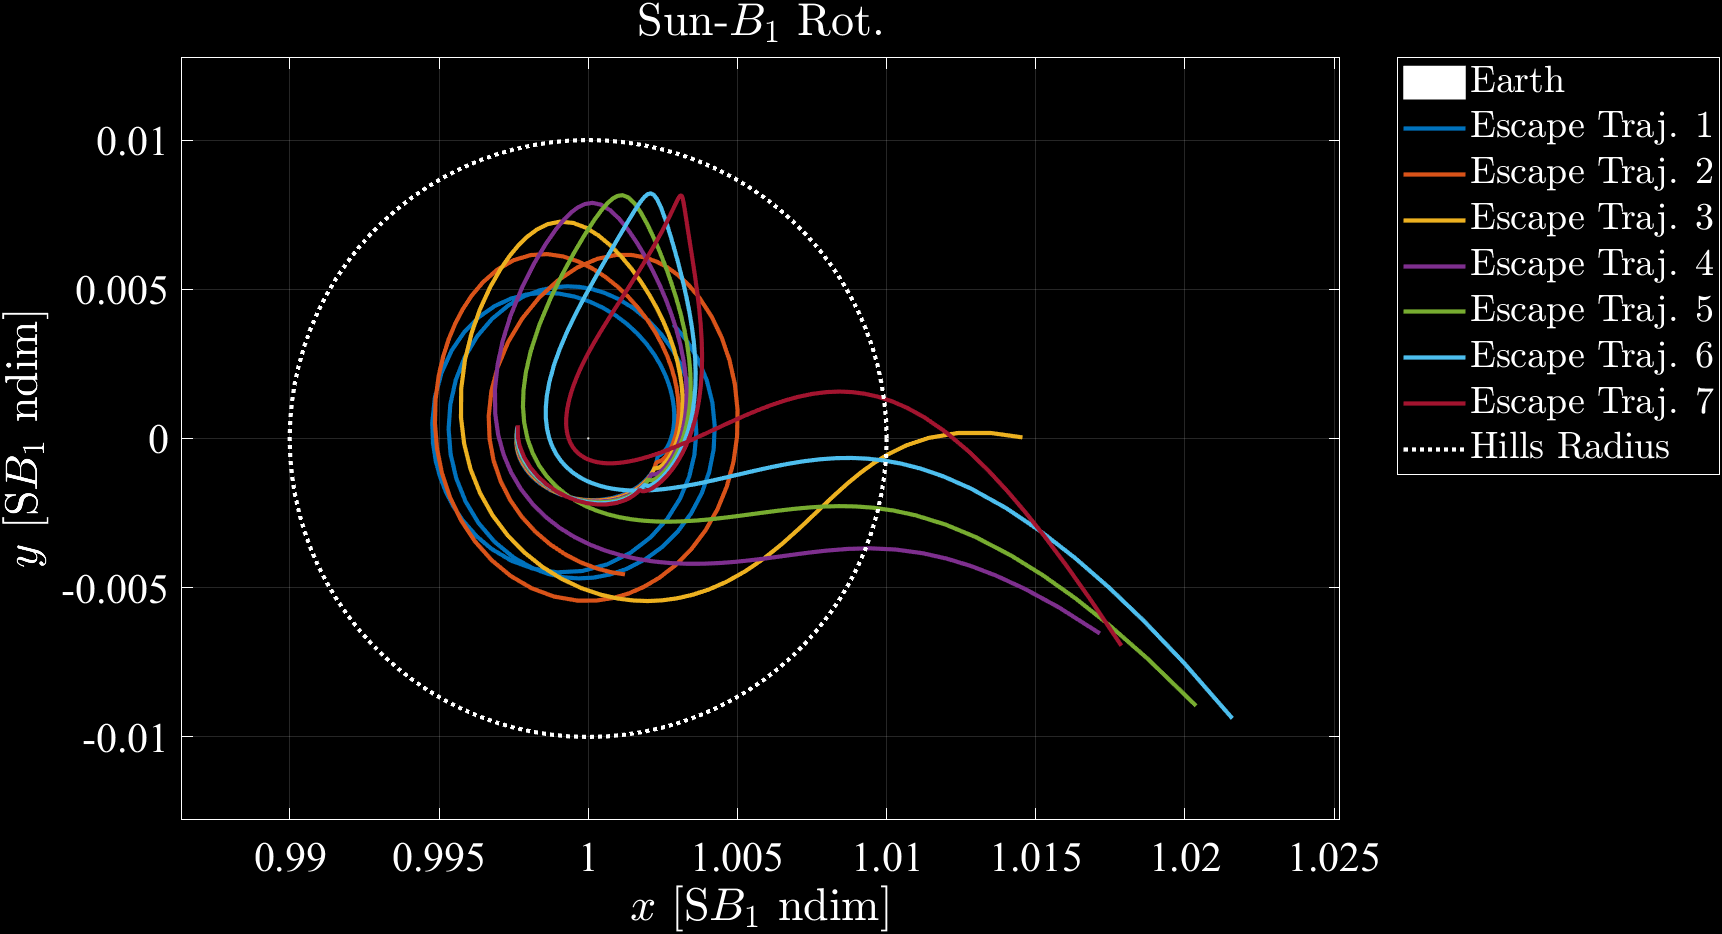
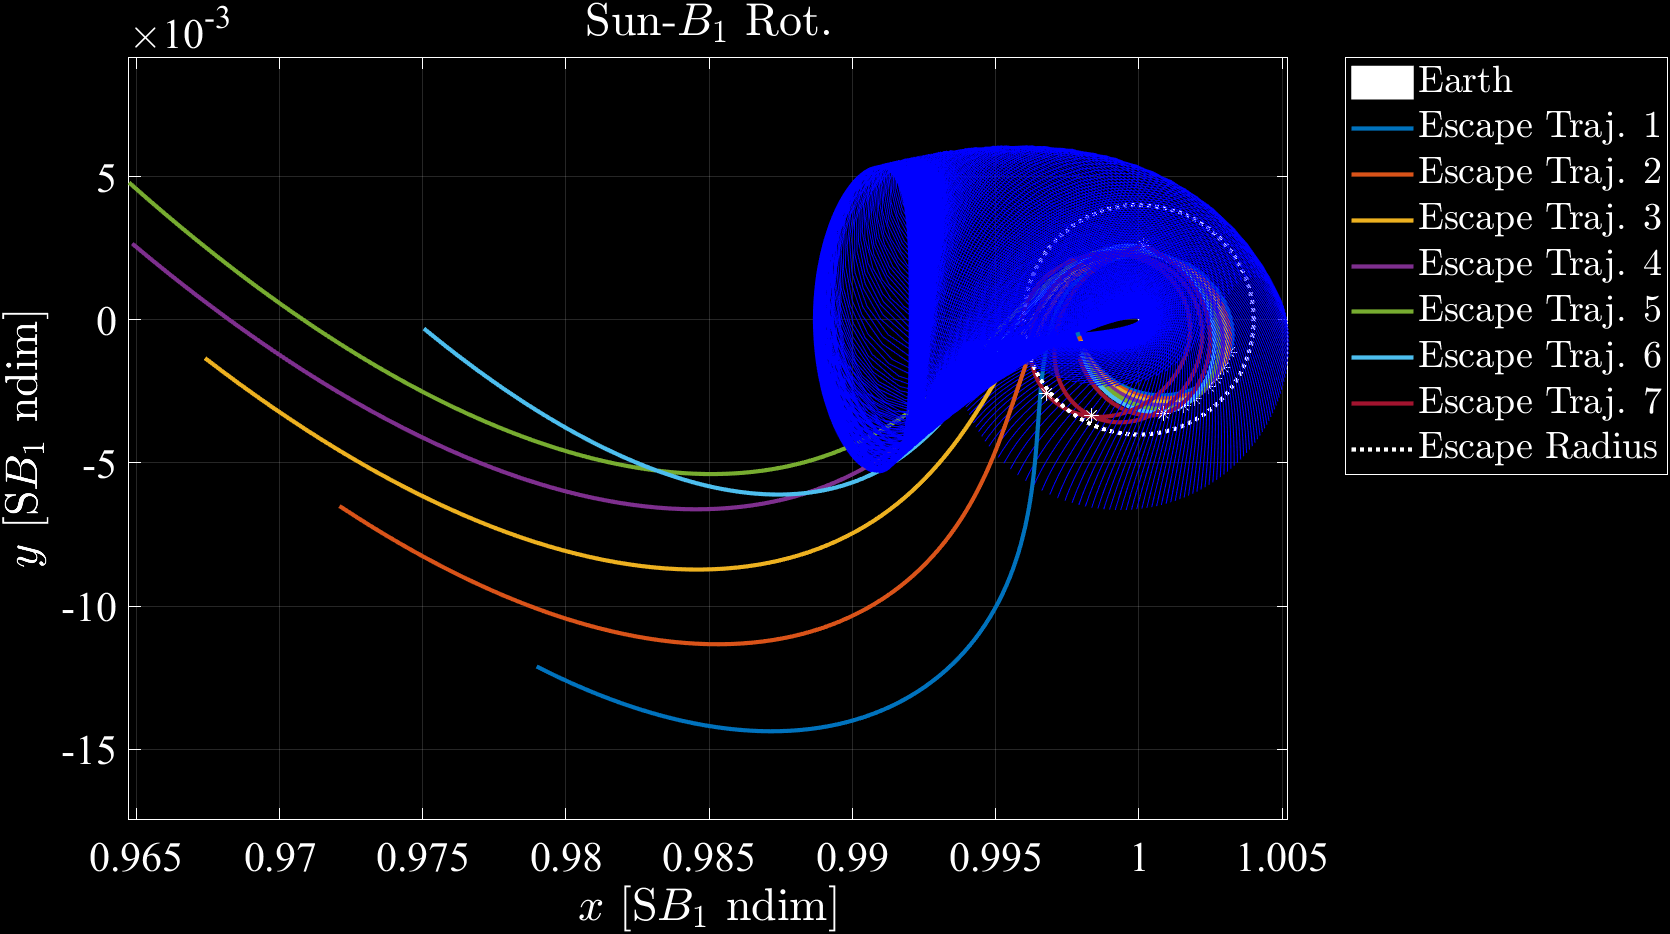
Updated EscapeAnalysis script

diff --git a/EscapeAnalysis.m b/EscapeAnalysis.m
@@ -1,7 +1,7 @@
 %%% EscapeAnalysis.jl
 %%% Jonathan Richmond
 %%% C: 22 September 2025
-%%% U: 23 September 2025
+%%% U: 7 October 2025
 
 clear
 load('../PhDScripts/Output/EscapeAnalysis.mat')
@@ -20,7 +20,8 @@ mstar = (gmE+gmm)/6.67384E-20; % Characteristic mass [kg]
 lstar = 3.8474799201129237E5; % Characteristic length [km]
 tstar = sqrt(lstar^3/(gmE+gmm)); % Characteristic time [s]
 
-RH = 1.496557260502363E6; % Hills radius [km]
+% RH = 1.496557260502363E6; % Hills radius [km]
+RH = 600000;
 
 %% Sun-B1 Data
 gmS = 1.327124400419393E11; % Sun gravitational parameter [km^3/s^2]
@@ -140,7 +141,7 @@ ylim(ax3, [0 10])
 grid on
 ylabel("$e_{E}$", 'Interpreter', 'latex')
 hold off
-xlabel("t [EM ndim]", 'Interpreter', 'latex')
+xlabel("$t$ [EM ndim]", 'Interpreter', 'latex')
 linkaxes([ax1, ax2, ax3], 'x')
 leg3 = legend(ps);
 leg3.Layout.Tile = 'east';
@@ -165,15 +166,34 @@ hold off
 %% Sun-B1 Trajectory Plot
 fig5 = figure("Position", [200 100 1200 750]);
 hold on
+ax = gca;
+colors = ax.ColorOrder;
+nColors = size(colors, 1);
 % Sun = plot3DBody("Sun", RS/lstarSB1, [-muSB1, 0, 0]);
 % set(Sun, 'DisplayName', "Sun")
 B1 = plot3DBody("Earth", RE/lstarSB1, [1-muSB1, 0, 0]);
 set(B1, 'DisplayName', "Earth")
 SB1Trajs = [SB1Trajectory1, SB1Trajectory2, SB1Trajectory3, SB1Trajectory4, SB1Trajectory5, SB1Trajectory6, SB1Trajectory7];
 for j = 1:length(SB1Trajs)
-    plot3(SB1Trajs(j).x(1:end-10), SB1Trajs(j).y(1:end-10), SB1Trajs(j).z(1:end-10), 'DisplayName', "Escape Traj. "+num2str(j))
+    color = colors(mod(j-1, nColors)+1,:);
+    plot3(SB1Trajs(j).x(1:end-150), SB1Trajs(j).y(1:end-150), SB1Trajs(j).z(1:end-150), 'Color', color, 'DisplayName', "Escape Traj. "+num2str(j))
+    dot_SB1 = zeros(length(SB1Trajs(j).x(1:end-150)), 1);
+    for k = 1:length(dot_SB1)
+        dot_SB1(k) = dot([SB1Trajs(j).x(k)-1+muSB1, SB1Trajs(j).y(k) SB1Trajs(j).z(k)], [SB1Trajs(j).xdot(k), SB1Trajs(j).ydot(k), SB1Trajs(j).zdot(k)]);
+    end
+    apse = find((dot_SB1(1:end-1) > 0) & (dot_SB1(2:end) <= 0))+1;
+    for k = 1:length(apse)
+        scatter3(SB1Trajs(j).x(apse(k)), SB1Trajs(j).y(apse(k)), SB1Trajs(j).z(apse(k)), 50, 'w', '*', 'HandleVisibility', 'off')
+    end
 end
-plot3(RH/lstarSB1*cos(linspace(0, 2*pi, 101))+1-muSB1, RH/lstarSB1*sin(linspace(0, 2*pi, 101)), zeros(1, 101), 'w:', 'DisplayName', "Hills Radius")
+% plot3(RH/lstarSB1*cos(linspace(0, 2*pi, 101))+1-muSB1, RH/lstarSB1*sin(linspace(0, 2*pi, 101)), zeros(1, 101), 'w:', 'DisplayName', "Hills Radius")
+plot3(RH/lstarSB1*cos(linspace(0, 2*pi, 101))+1-muSB1, RH/lstarSB1*sin(linspace(0, 2*pi, 101)), zeros(1, 101), 'w:', 'DisplayName', "Escape Radius")
+for j = 1:length(L1StableMan.arcs)
+    plot3(L1StableMan.arcs{j}.x, L1StableMan.arcs{j}.y, L1StableMan.arcs{j}.z, 'b', 'LineWidth', 0.5, 'HandleVisibility', 'off')
+end
+% for j = 1:length(L2StableMan.arcs)
+%     plot3(L2StableMan.arcs{j}.x, L2StableMan.arcs{j}.y, L2StableMan.arcs{j}.z, 'c', 'LineWidth', 0.5, 'HandleVisibility', 'off')
+% end
 axis equal
 grid on
 xlabel("$x$ [S$B_{1}$ ndim]", 'Interpreter', 'latex')
@@ -193,8 +213,18 @@ t6.TileSpacing = 'compact';
 t6.Padding = 'compact';
 ax1 = nexttile;
 hold on
-colors = ax1.ColorOrder;
-nColors = size(colors, 1);
+ps = gobjects(size(t, 1), 1);
+for j = 1:size(t, 1)
+    color = colors(mod(j-1, nColors)+1,:);
+    ps(j) = plot(SB1Trajs(j).t, SB1Trajs(j).H, 'Color', color, 'DisplayName', "$v_{E}="+num2str(v_esc(j))+"$");
+end
+yline(H_E2, 'w:', 'LineWidth', 1, 'HandleVisibility', 'off')
+grid on
+ylabel("$H_{SB_{1}}$ [S$B_{1}$ ndim]", 'Interpreter', 'latex')
+title("Sun-$B_{1}$ Hamiltonian", 'Interpreter', 'latex')
+hold off
+ax2 = nexttile;
+hold on
 for j = 1:size(t, 1)
     change = [1; find(diff(quad_SB1{j}) ~= 0)+1; length(quad_SB1{j})];
     color = colors(mod(j-1, nColors)+1,:);
@@ -202,31 +232,64 @@ for j = 1:size(t, 1)
         range = change(k):change(k+1);
         quad = quad_SB1{j}(range(1));
         if (quad == 1) || (quad == 3)
-            plot(t{j}(range), H_SB1{j}(range), 'Color', color, 'HandleVisibility', 'off')
+            plot(SB1Trajs(j).t(range), e_osc_E{j}(range), 'Color', color, 'HandleVisibility', 'off')
         else
-            plot(t{j}(range), H_SB1{j}(range), 'LineStyle', '--', 'Color', color, 'HandleVisibility', 'off')
+            plot(SB1Trajs(j).t(range), e_osc_E{j}(range), 'LineStyle', ':', 'Color', color, 'HandleVisibility', 'off')
         end
     end
-end
-yline(H_E1, 'w:', 'LineWidth', 1, 'HandleVisibility', 'off')
-grid on
-ylabel("$H_{SB_{1}}$ [S$B_{1}$ ndim]", 'Interpreter', 'latex')
-title("Sun-$B_{1}$ Hamiltonian", 'Interpreter', 'latex')
-hold off
-ax2 = nexttile;
-hold on
-ps = gobjects(size(t, 1), 1);
-for j = 1:size(t, 1)
-    ps(j) = plot(t{j}, e_osc_E{j}, 'DisplayName', "$v_{E}="+num2str(v_esc(j))+"$");
+    dot_SB1 = zeros(length(SB1Trajs(j).x(1:end-10)), 1);
+    for k = 1:length(dot_SB1)
+        dot_SB1(k) = dot([SB1Trajs(j).x(k)-1+muSB1, SB1Trajs(j).y(k) SB1Trajs(j).z(k)], [SB1Trajs(j).xdot(k), SB1Trajs(j).ydot(k), SB1Trajs(j).zdot(k)]);
+    end
+    apse = find((dot_SB1(1:end-1) > 0) & (dot_SB1(2:end) <= 0))+1;
+    for k = 1:length(apse)
+        scatter(SB1Trajs(j).t(apse(k)), e_osc_E{j}(apse(k)), 50, 'w', '*', 'HandleVisibility', 'off')
+    end
 end
 yline(1, 'w:', 'LineWidth', 1, 'HandleVisibility', 'off')
 ylim(ax2, [0 10])
 grid on
 ylabel("$e_{E}$", 'Interpreter', 'latex')
 hold off
-xlabel("t [EM ndim]", 'Interpreter', 'latex')
+xlabel("$t$ [S$B_{1}$ ndim]", 'Interpreter', 'latex')
 linkaxes([ax1, ax2], 'x')
 leg6 = legend(ps);
 leg6.Layout.Tile = 'east';
 leg6.Interpreter = 'latex';
 % exportgraphics(fig6, 'EscapeAnalysis_6.png', 'BackgroundColor', 'k')
+
+%% Jacobi Constants
+fig7 = figure("Position", [200 100 1200 750]);
+t7 = tiledlayout(2,1);
+t7.TileSpacing = 'compact';
+t7.Padding = 'compact';
+ax1 = nexttile;
+hold on
+ps = gobjects(size(t, 1), 1);
+for j = 1:size(t, 1)
+    color = colors(mod(j-1, nColors)+1,:);
+    ps(j) = plot(t{j}, JC_EM{j}, 'Color', color, 'DisplayName', "$h_{z}="+num2str(h_z(j))+"$");
+end
+yline(JC_EM_L2, 'w:', 'LineWidth', 1, 'HandleVisibility', 'off')
+ylim(ax1, [0 4])
+grid on
+ylabel("JC [EM ndim]", 'Interpreter', 'latex')
+title("Jacobi Constants", 'Interpreter', 'latex')
+hold off
+ax2 = nexttile;
+hold on
+for j = 1:size(t, 1)
+    color = colors(mod(j-1, nColors)+1,:);
+    plot(t{j}, JC_SB1{j}, 'Color', color, 'HandleVisibility', 'off')
+end
+yline(JC_SB1_L2, 'w:', 'LineWidth', 1, 'HandleVisibility', 'off')
+ylim(ax2, [3.0 3.003])
+grid on
+ylabel("JC [S$B_{1}$ ndim]", 'Interpreter', 'latex')
+hold off
+xlabel("$t$ [EM ndim]", 'Interpreter', 'latex')
+linkaxes([ax1, ax2], 'x')
+leg7 = legend(ps);
+leg7.Layout.Tile = 'east';
+leg7.Interpreter = 'latex';
+% exportgraphics(fig7, 'EscapeAnalysis_7.png', 'BackgroundColor', 'k')
